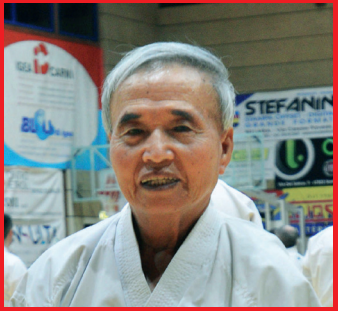
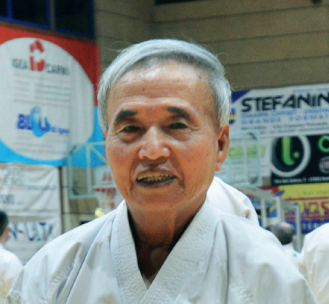
image section made big

diff --git a/src/pages/Home.jsx b/src/pages/Home.jsx
@@ -1,5 +1,5 @@
 import React from "react";
-import { Fade } from "react-awesome-reveal";
+import { Fade, Zoom } from "react-awesome-reveal";
 import img1 from "../assets/images/1.PNG";
 import img2 from "../assets/images/2.PNG";
 import img3 from "../assets/images/3.PNG";
@@ -14,7 +14,6 @@ import logo2 from "../assets/images/logo2.png";
 const Home = () => {
   const allData = [
     {
-      
       id: 1,
       img: img2,
       name: "Shihan Shiro Asano",
@@ -68,101 +67,139 @@ const Home = () => {
             SKIEF <br /> TECHNICAL <br /> SEMINAR <br /> 24
           </p>
         </div> */}
-        <Fade duration={3000}>
-          <img className="lg:max-w-5xl " src={hero} alt="hero"/>
-        </Fade> 
+        <Fade duration={2000} direction="left">
+          <img className="lg:max-w-5xl " src={hero} alt="hero" />
+        </Fade>
       </section>
 
-      <div className="max-w-xs md:flex ">
-        <img className="md:max-lg:relative md:max-lg:left-56 max-sm:relative max-sm:top-10 max-sm:left-8" src={ins1} alt="instructor"/>
+      <section>
+        <div className="max-w-xs mb-8">
+          <img className="" src={ins1} alt="instructor" />
 
-        <img className="ml-0 lg:ml-[300px] w-56 sm:w-60 max-sm:relative max-sm:left-10 max-sm:top-[86.5rem] sm:max-lg:relative sm:max-md:top-[88.25rem] sm:max-md:left-60 md:max-lg:top-[88rem] md:max-lg:right-20" src={ins2} alt="instructor" />
-      </div>
+          {/* <img className="ml-0 lg:ml-[300px] w-56 sm:w-60 max-sm:relative max-sm:left-10 max-sm:top-[86.5rem] sm:max-lg:relative sm:max-md:top-[88.25rem] sm:max-md:left-60 md:max-lg:top-[88rem] md:max-lg:right-20" src={ins2} alt="instructor" /> */}
+        </div>
 
-      <div className="grid grid-cols-1 lg:grid-cols-5 gap-2 max-sm:gap-y-12 sm:max-lg:gap-y-14">
-        {allData.map((data) => {
-          return (
-              <div className="mb-7 mx-auto">
-                <img className="mb-2 w-full" src={data.img} alt="" />
+        <div className="grid grid-cols-1 lg:grid-cols-3 gap-2 max-sm:gap-y-12 sm:max-lg:gap-y-14">
+          {allData.slice(0, 3).map((data) => {
+            return (
+              <div className="mb-7 mx-auto" key={data.id}>
+                <Zoom>
+                  <img
+                    className="mb-4 w-full transition-transform hover:-translate-y-4 hover:shadow-blue-950 hover:shadow-lg "
+                    src={data.img}
+                    width={220}
+                    height={220}
+                    alt="sensei"
+                  />
+                </Zoom>
                 <h2 className="font-bold w-36">{data.name}</h2>
                 <p>{data.title}</p>
               </div>
-          );
-        })}
-      </div>
+            );
+          })}
+        </div>
+      </section>
 
       <Fade duration={1000}>
-      <div className="grid lg:grid-cols-7 gap-10 my-20 px-4 lg:px-0">
-        <div className="col-span-3 font-semibold sm:font-thin">
-          <p className="h-16 font-bold">PRELIMINARY SCHEDULE</p>
-          <div className="grid grid-cols-3">
-            <p>Thursday 10th:</p>
-            <p className="col-span-2">Referee Clinic</p>
+        <div className="grid lg:grid-cols-7 gap-10 my-20 px-4 lg:px-0">
+          <div className="col-span-3 font-semibold sm:font-thin">
+            <p className="h-16 font-bold">PRELIMINARY SCHEDULE</p>
+            <div className="grid grid-cols-3">
+              <p>Thursday 10th:</p>
+              <p className="col-span-2">Referee Clinic</p>
+            </div>
+            <div className="grid grid-cols-3 mt-[4.2rem]">
+              <p>Friday 11th:</p>
+              <p className="col-span-2">
+                Referee Clinic continued <br />
+                Technical Seminar <br />
+                BOD meeting and General assembly
+              </p>
+            </div>
+            <div className="grid grid-cols-3 mt-7">
+              <p>Saturday 12th:</p>
+              <p className="col-span-2">
+                Technical Seminar <br />
+                Dan grading <br />
+                Party
+              </p>
+            </div>
+            <div className="grid grid-cols-3 my-8">
+              <p>Sunday 13th:</p>
+              <p className="col-span-2">Technical Seminar</p>
+            </div>
           </div>
-          <div className="grid grid-cols-3 mt-[4.2rem]">
-            <p>Friday 11th:</p>
-            <p className="col-span-2">
-              Referee Clinic continued <br />
-              Technical Seminar <br /> 
-              BOD meeting and General assembly
-            </p>
-          </div>
-          <div className="grid grid-cols-3 mt-7">
-            <p>Saturday 12th:</p>
-            <p className="col-span-2">Technical Seminar <br />
-            Dan grading <br /> 
-            Party</p>
-          </div>
-          <div className="grid grid-cols-3 my-8">
-            <p>Sunday 13th:</p>
-            <p className="col-span-2">Technical Seminar</p>
-          </div>
-        </div>
 
-        <div className="col-span-3 font-base sm:font-thin">
-          <p className="h-16 font-bold">INFORMATION WILL BE UPDATED CONTINOUSLY</p>
-          <div className="">
-            <p>
-              Information like Accommodation options and possibilities, travel
-              info, signup and more information will be part of the updates.:
+          <div className="col-span-3 font-base sm:font-thin">
+            <p className="h-16 font-bold">
+              INFORMATION WILL BE UPDATED CONTINOUSLY
             </p>
+            <div className="">
+              <p>
+                Information like Accommodation options and possibilities, travel
+                info, signup and more information will be part of the updates.:
+              </p>
+            </div>
+            <div className="my-5">
+              <p>
+                To receive update notifications, please sign up here: <br />
+                <span className="font-semibold cursor-pointer">
+                  http://skief-technicalseminar2024.dk
+                </span>
+              </p>
+            </div>
+            <div className="mt-[3.2rem] flex">
+              <p>Contact information:</p>
+              <a href="mailto:carsten@skif.dk" className="ml-2 font-semibold">
+                carsten@skif.dk
+              </a>
+            </div>
+            <div className="my-20">
+              <p className="font-semibold">
+                Venue address: <br /> DGI Huset Vejle, Willy Sørensens Plads 5,
+                7100 Vejle, Denmark
+              </p>
+            </div>
           </div>
-          <div className="my-5">
-            <p>
-              To receive update notifications, please sign up here: <br />
-              <span className="font-semibold cursor-pointer">http://skief-technicalseminar2024.dk</span>
-            </p>
-          </div>
-          <div className="mt-[3.2rem] flex">
-            <p>Contact information:</p>
-            <a href="mailto:carsten@skif.dk" className="ml-2 font-semibold">carsten@skif.dk</a>
-          </div>
-          <div className="my-20">
-            <p className="font-semibold">
-              Venue address: <br /> DGI Huset Vejle, Willy Sørensens Plads 5, 7100
-              Vejle, Denmark
-            </p>
-          </div>
-        </div>
 
-        <div className="col-span-3 lg:col-span-1 mx-auto">
-          <img className="w-24 -mt-10 sm:mt-6" src={logo2} alt="" />
-          <img className="w-24 mt-6" src={logo1} alt="" />
+          <div className="col-span-3 lg:col-span-1 mx-auto">
+            <img className="w-24 -mt-10 sm:mt-6" src={logo2} alt="" />
+            <img className="w-24 mt-6" src={logo1} alt="" />
+          </div>
         </div>
-      </div>
       </Fade>
 
       <div class="py-10 border-t-2 border-gray-900 lg:px-0">
         <div class="flex items-center flex-col md:flex-row gap-3 max-sm:pl-2 mx-auto justify-center">
           <p className="text-xl ">
-            <svg stroke="currentColor" fill="currentColor" stroke-width="0" viewBox="0 0 512 512" height="1em" width="1em" xmlns="http://www.w3.org/2000/svg"><path d="M256 8C119.033 8 8 119.033 8 256s111.033 248 248 248 248-111.033 248-248S392.967 8 256 8zm0 448c-110.532 0-200-89.451-200-200 0-110.531 89.451-200 200-200 110.532 0 200 89.451 200 200 0 110.532-89.451 200-200 200zm107.351-101.064c-9.614 9.712-45.53 41.396-104.065 41.396-82.43 0-140.484-61.425-140.484-141.567 0-79.152 60.275-139.401 139.762-139.401 55.531 0 88.738 26.62 97.593 34.779a11.965 11.965 0 0 1 1.936 15.322l-18.155 28.113c-3.841 5.95-11.966 7.282-17.499 2.921-8.595-6.776-31.814-22.538-61.708-22.538-48.303 0-77.916 35.33-77.916 80.082 0 41.589 26.888 83.692 78.277 83.692 32.657 0 56.843-19.039 65.726-27.225 5.27-4.857 13.596-4.039 17.82 1.738l19.865 27.17a11.947 11.947 0 0 1-1.152 15.518z"></path></svg>
+            <svg
+              stroke="currentColor"
+              fill="currentColor"
+              stroke-width="0"
+              viewBox="0 0 512 512"
+              height="1em"
+              width="1em"
+              xmlns="http://www.w3.org/2000/svg"
+            >
+              <path d="M256 8C119.033 8 8 119.033 8 256s111.033 248 248 248 248-111.033 248-248S392.967 8 256 8zm0 448c-110.532 0-200-89.451-200-200 0-110.531 89.451-200 200-200 110.532 0 200 89.451 200 200 0 110.532-89.451 200-200 200zm107.351-101.064c-9.614 9.712-45.53 41.396-104.065 41.396-82.43 0-140.484-61.425-140.484-141.567 0-79.152 60.275-139.401 139.762-139.401 55.531 0 88.738 26.62 97.593 34.779a11.965 11.965 0 0 1 1.936 15.322l-18.155 28.113c-3.841 5.95-11.966 7.282-17.499 2.921-8.595-6.776-31.814-22.538-61.708-22.538-48.303 0-77.916 35.33-77.916 80.082 0 41.589 26.888 83.692 78.277 83.692 32.657 0 56.843-19.039 65.726-27.225 5.27-4.857 13.596-4.039 17.82 1.738l19.865 27.17a11.947 11.947 0 0 1-1.152 15.518z"></path>
+            </svg>
           </p>
-          <p class="block antialiased font-sans font-light text-inherit text-sm lg:text-lg">Shotokan Karate-Do International Denmark - All Rights Reserved Website developed by
-            <a target="_blank" rel="noreferrer" class="font-semibold text-black hover:text-gray-900" href="https://www.kodeend.com/"> KodeEnd IT Solutions AB</a>
+          <p class="block antialiased font-sans font-light text-inherit text-sm lg:text-lg">
+            Shotokan Karate-Do International Denmark - All Rights Reserved
+            Website developed by
+            <a
+              target="_blank"
+              rel="noreferrer"
+              class="font-semibold text-black hover:text-gray-900"
+              href="https://www.kodeend.com/"
+            >
+              {" "}
+              KodeEnd IT Solutions AB
+            </a>
           </p>
         </div>
       </div>
-      
+
       {/* <section className="flex flex-col lg:flex-row py-20">
         <div className="">
           <h2 className="font-bold text-xl">PRELIMINARY SCHEDULE</h2><br />
